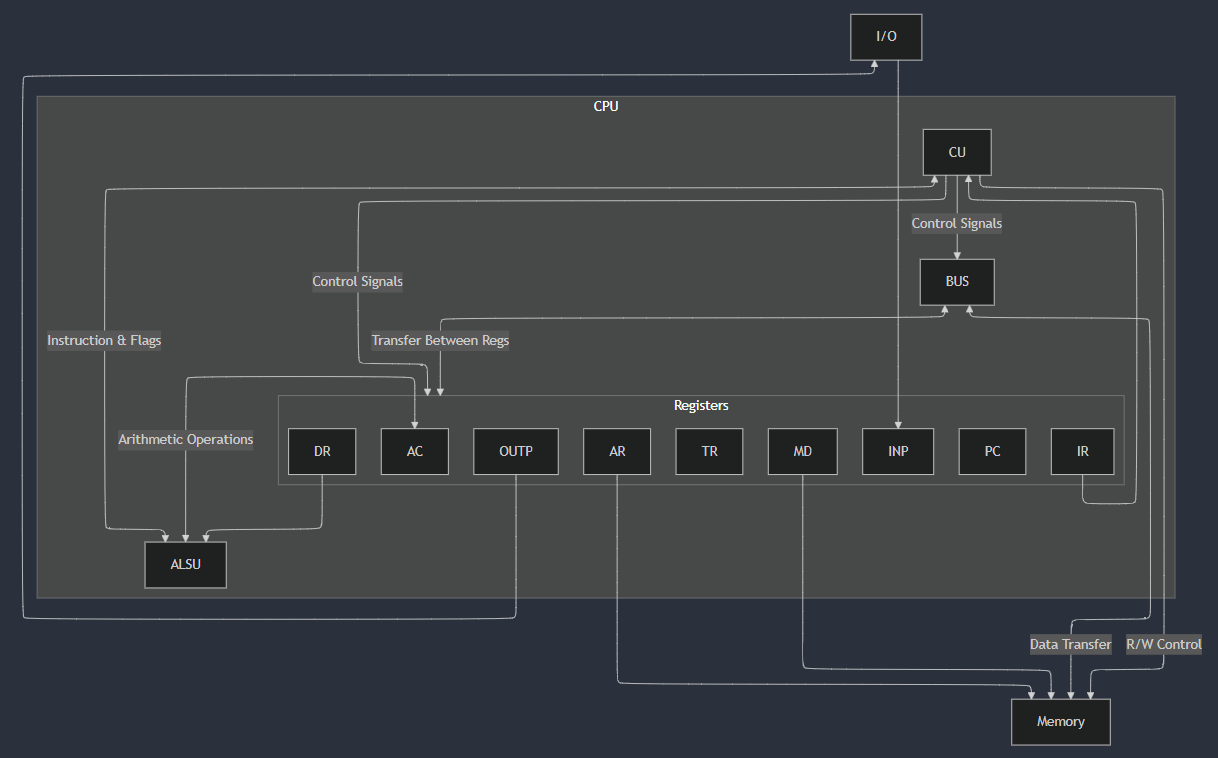
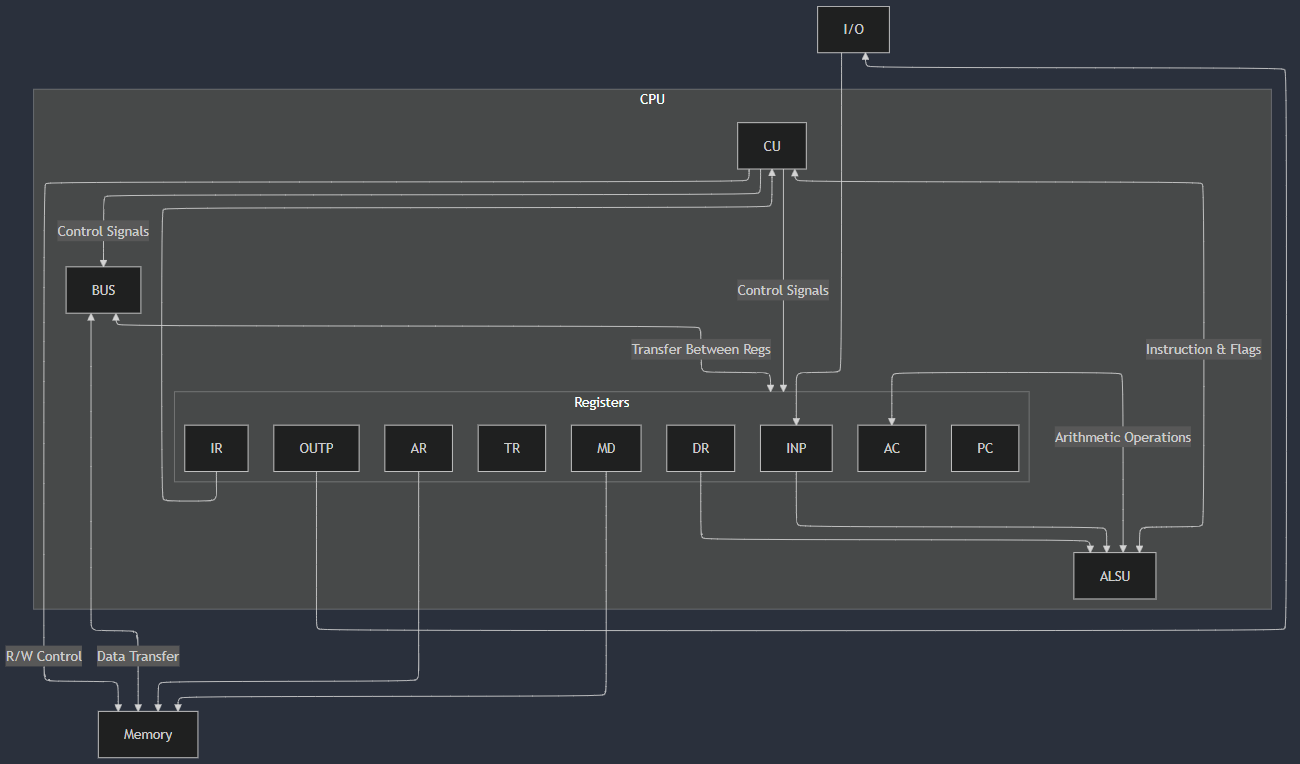
feat: new instructions; docs: readme, comments; fix: diagram.png

diff --git a/assembler/src/main.rs b/assembler/src/main.rs
@@ -16,7 +16,7 @@ pub struct Config {
     #[arg(long, short)]
     pub dest: Option<String>,
 
-    /// Length of the memory 
+    /// Length of the memory
     #[arg(long, short, default_value_t = 256)]
     pub len: usize,
 }
@@ -164,7 +164,6 @@ fn parse_asm(src: &str) -> Vec<Instruction> {
             "rcl" => inst_arm!(line, insts, label, InstType::Rcl, Flags::NONE),
             "hlt" => inst_arm!(line, insts, label, InstType::Hlt, Flags::NONE),
             "lac" => inst_arm!(line, insts, label, InstType::Lac, Flags::NONE),
-            "laci" => inst_arm!(line, insts, label, InstType::Lac, Flags(vec!['i'])),
             "ltr" => inst_arm!(line, insts, label, InstType::Ltr, Flags::NONE),
             "wac" => inst_arm!(line, insts, label, InstType::Wac, Flags::NONE),
             "rac" => inst_arm!(line, insts, label, InstType::Rac, Flags::NONE),
@@ -173,15 +172,26 @@ fn parse_asm(src: &str) -> Vec<Instruction> {
             "jne" => inst_arm!(line, insts, label, InstType::Jne, Flags::NONE),
             "jg" => inst_arm!(line, insts, label, InstType::Jg, Flags::NONE),
             "jl" => inst_arm!(line, insts, label, InstType::Jl, Flags::NONE),
+            "inp" => inst_arm!(line, insts, label, InstType::Inp, Flags::NONE),
+            "out" => inst_arm!(line, insts, label, InstType::Out, Flags::NONE),
+            "ion" => inst_arm!(line, insts, label, InstType::Ion, Flags::NONE),
+            "iof" => inst_arm!(line, insts, label, InstType::Iof, Flags::NONE),
+            "nop" => inst_arm!(line, insts, label, InstType::Nop, Flags::NONE),
+            "mta" => inst_arm!(line, insts, label, InstType::Mta, Flags::NONE),
+            "mat" => inst_arm!(line, insts, label, InstType::Mat, Flags::NONE),
+            "andi" => inst_arm!(line, insts, label, InstType::And, Flags(vec!['i'])),
+            "ori" => inst_arm!(line, insts, label, InstType::Or, Flags(vec!['i'])),
+            "addi" => inst_arm!(line, insts, label, InstType::Add, Flags(vec!['i'])),
+            "subi" => inst_arm!(line, insts, label, InstType::Sub, Flags(vec!['i'])),
+            "xori" => inst_arm!(line, insts, label, InstType::Xor, Flags(vec!['i'])),
+            "laci" => inst_arm!(line, insts, label, InstType::Lac, Flags(vec!['i'])),
+            "ltri" => inst_arm!(line, insts, label, InstType::Ltr, Flags(vec!['i'])),
+            "waci" => inst_arm!(line, insts, label, InstType::Wac, Flags(vec!['i'])),
             "jmpi" => inst_arm!(line, insts, label, InstType::Jmp, Flags(vec!['i'])),
             "jei" => inst_arm!(line, insts, label, InstType::Je, Flags(vec!['i'])),
             "jnei" => inst_arm!(line, insts, label, InstType::Jne, Flags(vec!['i'])),
             "jgi" => inst_arm!(line, insts, label, InstType::Jg, Flags(vec!['i'])),
             "jli" => inst_arm!(line, insts, label, InstType::Jl, Flags(vec!['i'])),
-            "out" => inst_arm!(line, insts, label, InstType::Out, Flags::NONE),
-            "ion" => inst_arm!(line, insts, label, InstType::Ion, Flags::NONE),
-            "iof" => inst_arm!(line, insts, label, InstType::Iof, Flags::NONE),
-            "nop" => inst_arm!(line, insts, label, InstType::Nop, Flags::NONE),
             _ => panic!("unknown instruction {word}"),
         }
     }
@@ -277,6 +287,9 @@ impl Bin {
                     InstType::Jg => 20,
                     InstType::Jl => 21,
                     InstType::Rac => 22,
+                    InstType::Mat => 118,
+                    InstType::Mta => 119,
+                    InstType::Inp => 120,
                     InstType::Nop => 121,
                     InstType::Iof => 122,
                     InstType::Ion => 123,
@@ -394,14 +407,20 @@ enum InstType {
     Jg,
     /// jmp if sign flag == 1
     Jl,
-    // send accumulator register's value to output register
+    // move accumulator register's value to output register
     Out,
+    // move input register's value to accumulator register
+    Inp,
     // set interrupt enable to true
     Ion,
     // set interrupt enable to false
     Iof,
     // no operation
     Nop,
+    // move ac to tr
+    Mat,
+    // move tr to ac
+    Mta,
 }
 
 #[allow(unused)]

diff --git a/README.md b/README.md
@@ -1,6 +1,51 @@
 ## CPU
 
-### Diagram
+### Table of Contents
+
+- [Usage](#usage)
+- [Module Interaction Diagram](#module-interaction-diagram)
+- [Registers](#registers)
+- [Flags](#flags)
+- [Instruction Format](#instruction-format)
+- [Assembler](#assembler-1)
+  - [Instructions](#instructions)
+  - [Labels](#labels)
+  - [Addressing Mode](#addressing-mode)
+  - [Value Types](#value-types)
+  - [Directives](#directives)
+
+A accumulator based CPU architecture implemented in Verilog and its assembler in Rust, featuring simple instruction set and custom assembly language.
+
+### Usage
+
+#### Assembler
+
+Assemble with `bin/assembler.exe` to generate memory for `src/cpu.v`, e.g.
+
+```bash
+./bin/assembler.exe --src ./examples/test.txt --dest ./memory.txt
+```
+
+Or build the assembler with:
+
+```bash
+cd ./assembler
+cargo build --release
+```
+
+And then use assembler with the binary generated at `./assembler/target/release/assembler.exe`.
+
+#### Cpu
+
+Run `./src/cpu.v` with [Verilog HDL](https://marketplace.visualstudio.com/items?itemName=leafvmaple.verilog) vscode extension or your custom command but note that `./src/cpu.v` needs to read `./memory.txt`:
+
+```verilog
+// src/cpu.v:
+// reading a file directly to memory and initializing it
+$readmemh("../memory.txt", mem);
+```
+
+### Module Interaction Diagram
 
 ![](./assets/diagram.png)
 
@@ -23,8 +68,8 @@
 ### Instruction Format
 
 | Addressing mode | Opcode | Operand/Address |
-| - | - | - |
-| 1 bit | 7 bits | 24 bits |
+| --------------- | ------ | --------------- |
+| 1 bit           | 7 bits | 24 bits         |
 
 ## Assembler
 
@@ -34,20 +79,20 @@
 | ----------- | --------------------------------------- | ------ | ----------- |
 | and         | logical and                             | 0x00   | 1           |
 | or          | logical or                              | 0x01   | 1           |
-| inc         | increment operand by 1                  | 0x02   | 1           |
-| dec         | decrement operand by 1                  | 0x03   | 1           |
+| inc         | increment ac by 1                       | 0x02   | 0           |
+| dec         | decrement ac by 1                       | 0x03   | 0           |
 | add         | add operand to ac                       | 0x04   | 1           |
 | sub         | subtract ac from operand                | 0x05   | 1           |
 | xor         | exclusive or                            | 0x06   | 1           |
-| not         | negate operand                          | 0x07   | 1           |
-| shr         | logical shift right                     | 0x08   | 1           |
-| ashr        | arithmetic shift right                  | 0x09   | 1           |
-| ror         | rotate right                            | 0x0A   | 1           |
-| rcr         | rotate right through carry              | 0x0B   | 1           |
-| shl         | logical shift left                      | 0x0C   | 1           |
-| ashl        | arithmatic shift left                   | 0x0D   | 1           |
-| rol         | rotate left                             | 0x0E   | 1           |
-| rcl         | rotate left through carry               | 0x0F   | 1           |
+| not         | negate ac                               | 0x07   | 0           |
+| shr         | logical shift right                     | 0x08   | 0           |
+| ashr        | arithmetic shift right                  | 0x09   | 0           |
+| ror         | rotate right                            | 0x0A   | 0           |
+| rcr         | rotate right through carry              | 0x0B   | 0           |
+| shl         | logical shift left                      | 0x0C   | 0           |
+| ashl        | arithmatic shift left                   | 0x0D   | 0           |
+| rol         | rotate left                             | 0x0E   | 0           |
+| rcl         | rotate left through carry               | 0x0F   | 0           |
 | wac         | write ac to memory at address operand   | 0x10   | 1           |
 | jmp         | unconditional branch to address operand | 0x11   | 1           |
 | je          | jmp if zf is 1                          | 0x12   | 1           |
@@ -55,6 +100,9 @@
 | jg          | jmp if sf is 0 and zf is 0              | 0x14   | 1           |
 | jl          | jmp if sf is 1 and zf is 0              | 0x15   | 1           |
 | rac         | read memory at address ac, store at ac  | 0x16   | 0           |
+| mat         | move ac to tr                           | 0x76   | 0           |
+| mta         | move tr to ac                           | 0x77   | 0           |
+| inp         | move inp to ac and set fgi to 0         | 0x78   | 0           |
 | nop         | no operation                            | 0x79   | 0           |
 | iof         | interrupt off                           | 0x7A   | 0           |
 | ion         | interrupt on                            | 0x7B   | 0           |
@@ -107,5 +155,4 @@ e.g.
 ### Directives
 
 - `.zero` 32 bit `0`, used as a default value
-- `.data` start of a data segment which accepts direct value type or strings, e.g. `.data "hello"` or `.data 0d99`
-
+- `.data` start of a data segment which accepts immediate value type or strings, e.g. `.data "foo bar"` or `.data 0d99`
